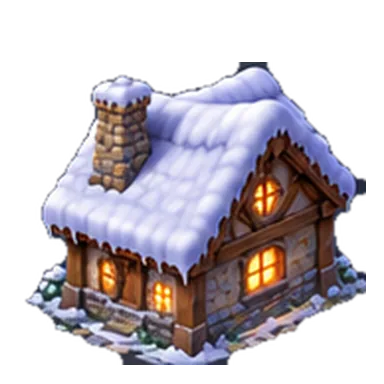
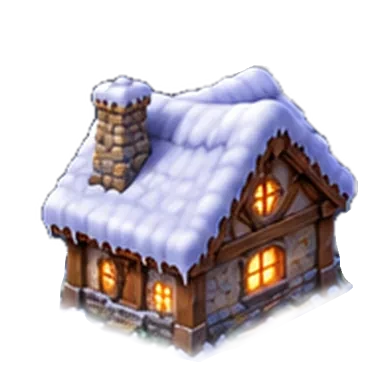
assets(exploration): replace snow alpine timber side sprite with author's clean cutout

diff --git a/docs/LAB_CURRENT_WORK.md b/docs/LAB_CURRENT_WORK.md
@@ -1,3 +1,9 @@
+## 2026-11-15 — Remplacement fidèle du détourage chalet alpin (asset canonique)
+- START `main@05ccc80874a27ab19f184897ac659c5b2abd1c4a`, branche `work/exploration-snow-house-clean-cutout-20261115` ; lot limité aux assets, aucune logique renderer, collision ou sauvegarde modifiée.
+- Source : WebP RGBA 384 × 384, 24 320 octets fourni et nettoyé par l'auteur. Remplacement strict à chemin et assetId constants de `building_house_snow_alpine_timber_2p5d_side_01.webp` (vue side) ; aucune régénération et aucune copie concurrente.
[1 lines of base64/hex data omitted]
+- Validation : vérifier CI, image affichée côté éditeur et Aventure sur PC/Pixel, puis Pages au SHA exact avant déclaration GREEN. Extension du nettoyage aux autres bâtiments exclusivement après inventaire visuel, sans correction automatique destructive.
+
 ## 2026-11-15 — Ombres d'objets : édition compacte repliable (retour utilisateur)
 - START certifié `main@4a8063e526ec7c00d41b4997eb8a758c4fd76f3a` (PR #464, ci et Pages GREEN), checkpoint `checkpoint/exploration-shadow-editor-start-2026-11-15`, branche `work/exploration-shadow-editor-collapsible-20261115`.
 - Problème : plusieurs images de maisons aux pixels transparents variables donnent encore une impression de flottement après correction de la projection du masque. Autoriser une correction légère et **par objet placé** sans modifier les PNG, collisions ni le propriétaire du rendu.
